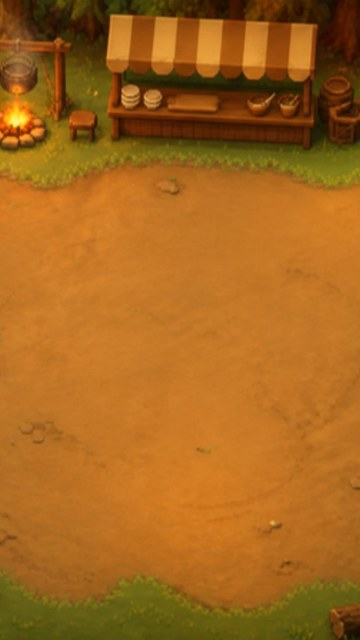
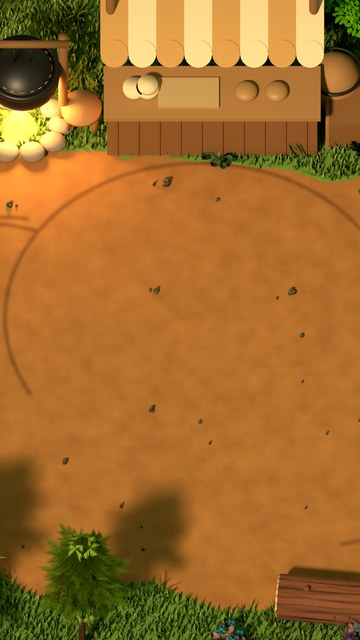
Clairière 3D (rendu Blender) et chat chef 3D animé dans le jeu (une direction, étape intermédiaire)
Claude-Session: https://claude.ai/code/session_011iTQJ3ptn1M89syPvc6cfN

diff --git a/src/entities/Chef.ts b/src/entities/Chef.ts
@@ -1,11 +1,15 @@
 import Phaser from 'phaser';
 import { audio } from '../audio/AudioManager';
+import ANIM3D from '../core/anim3d.json';
 import { artScale, CHEF_FRAMES, ChefDef, is3d, PowerId, fitUi, px, STYLE_3D } from '../core/constants';
 import { emptyInventory, Inventory, Order } from '../core/RecipeManager';
 import anchors from '../core/spriteAnchors.json';
 
 const ANCHORS = anchors as Record<string, number>;
 const ATTACK_ANIM = 0.28;
+/** Distance parcourue (unités du jeu) pour un cycle complet de pas : la cadence des pas suit la vitesse, les pieds ne glissent pas. */
+const RIG_STRIDE = 56;
+interface RigMeta { w: number; h: number; ox: number; oy: number; scale: number; anims: Record<string, { frames: number; cols: number }> }
 
 /** Le chef jouable : déplacement, vie, inventaire, pouvoirs temporaires, animations. */
 export class Chef {
@@ -36,6 +40,10 @@ export class Chef {
   private lunge = 0;
   private attackT = 0;
   private frames: { idle: string[]; walk: string[]; attack: string[] };
+  /** Animations 3D du chef (Blender) si elles sont chargées et qu'aucun costume n'est équipé. */
+  private rig: RigMeta | null = null;
+  private rigPhase = 0;
+  private moveSpeed = 0;
 
   /** @param skin costume de boutique : une seule image, animée par code */
   constructor(scene: Phaser.Scene, public def: ChefDef, x: number, y: number, private skin: string | null = null) {
@@ -44,6 +52,7 @@ export class Chef {
     this.hp = this.maxHp = def.hp;
     // costume : une seule image ; en style 3D, sa pose d'attaque quand elle existe
     this.frames = skin ? { idle: [skin], walk: is3d(skin) && scene.textures.exists(skin + '_mar') ? [skin + '_mar', skin] : [skin], attack: [is3d(skin) && scene.textures.exists(skin + '_atk') ? skin + '_atk' : skin] } : CHEF_FRAMES[def.id];
+    this.rig = !skin && STYLE_3D && scene.textures.exists(`rig_${def.id}_idle`) ? ((ANIM3D as Record<string, RigMeta>)[def.id] ?? null) : null;
     this.shadow = scene.add.ellipse(x, y, 26, 8, 0x000000, 0.3);
     this.sprite = scene.add.image(x, y, this.frames.idle[0]).setOrigin(0.5, 1);
     this.dishIcon = fitUi(scene.add.image(x, y, 'plat').setVisible(false));
@@ -61,6 +70,8 @@ export class Chef {
       if (stuck || !blocked(nx, this.y)) this.x = nx;
       if (stuck || !blocked(this.x, ny)) this.y = ny;
       if (Math.abs(dir.x) > 0.15) this.facing = dir.x > 0 ? 1 : -1;
+      this.moveSpeed = speed;
+      this.rigPhase += (dt * speed) / RIG_STRIDE;
       const step = Math.floor(this.walkT);
       this.walkT += dt * (speed / 12);
       if (STYLE_3D && Math.floor(this.walkT) !== step && step % 2 === 0) audio.sfx('pas'); // un bruit de pas tous les deux temps
@@ -101,6 +112,28 @@ export class Chef {
     if (this.chopping) return f.attack[Math.floor(time / 130) % 2];
     if (this.moving) return f.walk[Math.floor(this.walkT) % f.walk.length];
     return f.idle[0];
+  }
+
+  /** Animation 3D : choisit la planche (repos, marche, course, attaque) et l'image selon l'état du chef. */
+  private applyRig(time: number): void {
+    const r = this.rig!;
+    let anim = 'idle';
+    let t = (time / 2600) % 1;
+    if (this.attackT > 0 || this.ultActive > 0 || this.chopping) {
+      anim = 'attaque';
+      t = this.ultActive > 0 || this.chopping ? (time / 380) % 1 : 1 - this.attackT / ATTACK_ANIM;
+    } else if (this.moving) {
+      anim = this.moveSpeed < 70 ? 'marche' : 'course';
+      t = this.rigPhase % 1;
+    }
+    const n = r.anims[anim].frames;
+    const flip = this.ultActive > 0 ? Math.floor(time / 70) % 2 === 0 : this.facing < 0;
+    this.sprite
+      .setTexture(`rig_${this.def.id}_${anim}`, Math.min(n - 1, Math.floor(t * n)))
+      .setFlipX(flip)
+      .setOrigin(flip ? 1 - r.ox / r.w : r.ox / r.w, r.oy / r.h)
+      .setScale(r.scale)
+      .setAngle(0);
   }
 
   /**
@@ -195,6 +228,7 @@ export class Chef {
       .setAngle(swing || ((this.skin || is3d(key)) && this.moving ? Math.sin(this.walkT * Math.PI) * 2 : 0))
       .setAlpha(this.invuln > 0 && Math.floor(time / 80) % 2 === 0 ? 0.35 : 1)
       .setDepth(this.y);
+    if (this.rig) this.applyRig(time);
     this.shadow.setPosition(this.x, this.y - 1).setDepth(this.y - 1);
     this.dishIcon
       .setVisible(this.dish !== null)

diff --git a/src/scenes/BootScene.ts b/src/scenes/BootScene.ts
@@ -1,4 +1,5 @@
 import Phaser from 'phaser';
+import ANIM3D from '../core/anim3d.json';
 import { ART_3D, CHEF_ORDER, INGREDIENTS, is3d, SHOP, SPRITE_FILES, STYLE_3D, UPGRADES, WORLD_3D, WORLD_ORDER, WORLDS, UI3D_2X, UI3D_HD } from '../core/constants';
 
 /** Charge les sprites et génère les petites textures procédurales (joystick, plat, effets). */
@@ -42,6 +43,8 @@ export class BootScene extends Phaser.Scene {
     for (const u of UPGRADES) this.load.image(u.icon, STYLE_3D && UI3D_2X.includes(u.icon) ? `ui3d/${u.icon}.png` : `ui/${u.icon}.png`);
     // plat, tonneau explosif, boule de feu, cadenas : version 3D (les dessins pixel ne sont alors pas fabriqués)
     if (STYLE_3D) for (const k of ['plat', 'tonneau', 'boule_feu', 'cadenas']) this.load.image(k, `ui3d/${k}.png`);
+    // animations 3D (Blender, squelette + mouvements enregistrés) : une planche d'images par animation et par chef
+    if (STYLE_3D) for (const [id, m] of Object.entries(ANIM3D)) for (const a of Object.keys(m.anims)) this.load.spritesheet(`rig_${id}_${a}`, `anim3d/${id}_${a}.webp`, { frameWidth: m.w, frameHeight: m.h });
     this.load.image('logo', '../logo.png');
     // interface façon image de référence (découpée par tools/extract_ui3d.py)
     if (STYLE_3D) for (const k of ['btn_attaque', 'btn_feu', 'joy_pommeau', 'chrono', 'piece', 'pause', 'coeur', 'coeur_vide']) this.load.image('ui3d_' + k, `ui3d/${k}.png`);
@@ -56,6 +59,7 @@ export class BootScene extends Phaser.Scene {
     for (const k of this.textures.getTextureKeys()) if (k.startsWith('ui3d_') || (STYLE_3D && UI3D_HD.includes(k))) this.textures.get(k).setFilter(Phaser.Textures.FilterMode.LINEAR);
     // images 3D : lissées (pas de gros pixels)
     for (const k of Object.keys(ART_3D)) if (is3d(k) && this.textures.exists(k)) this.textures.get(k).setFilter(Phaser.Textures.FilterMode.LINEAR);
+    for (const k of this.textures.getTextureKeys()) if (k.startsWith('rig_')) this.textures.get(k).setFilter(Phaser.Textures.FilterMode.LINEAR);
     const g = this.make.graphics({ x: 0, y: 0 }, false);
     const tex = (key: string, w: number, h: number, draw: () => void) => {
       if (this.textures.exists(key)) return; // déjà chargé (image 3D)

diff --git a/tools/blender/pack_anim.py b/tools/blender/pack_anim.py
@@ -20,11 +20,11 @@ SRC, WHO = sys.argv[1], sys.argv[2]
 DISPLAY_H = float(sys.argv[3]) if len(sys.argv) > 3 else 44.0   # hauteur du personnage à l'écran, en unités du jeu
 OUT = os.path.join(ROOT, "public", "assets", "anim3d")
 OUT_TS = os.path.join(ROOT, "src", "core", "anim3d.json")
-SHRINK = 0.62          # 512 px rendus -> taille livrée (poids du jeu) ; reste très net : le personnage fait ~220 px de haut
-FEET = (256, 393)      # point des pieds dans l'image rendue (cible de la caméra : voir chef.py)
+SHRINK = 1.0           # images rendues à 3 px par pixel de carte : pas de réduction (le personnage fait ~150 px de haut)
+FEET = (320, 388)      # point des pieds dans l'image rendue de 640 x 640 (cible de la caméra : voir chef.py)
 os.makedirs(OUT, exist_ok=True)
 
-files = sorted(glob.glob(os.path.join(SRC, f"{WHO}_*_[0-9][0-9].png")))
+files = sorted(glob.glob(os.path.join(SRC, f"{WHO}_*_[0-9][0-9]*.png")))
 anims = {}
 for f in files:
     m = re.match(rf"{WHO}_(\w+)_(\d+)\.png", os.path.basename(f))
@@ -38,7 +38,7 @@ for fs in anims.values():
         if bb:
             x0, y0, x1, y1 = min(x0, bb[0]), min(y0, bb[1]), max(x1, bb[2]), max(y1, bb[3])
 pad = 6
-x0, y0, x1, y1 = max(0, x0 - pad), max(0, y0 - pad), min(512, x1 + pad), min(512, y1 + pad)
+x0, y0, x1, y1 = max(0, x0 - pad), max(0, y0 - pad), min(640, x1 + pad), min(640, y1 + pad)
 cw, ch = x1 - x0, y1 - y0
 fw, fh = round(cw * SHRINK), round(ch * SHRINK)
 info = {}
@@ -53,7 +53,8 @@ for name, fs in anims.items():
     sheet.save(os.path.join(OUT, f"{WHO}_{name}.webp"), quality=92, method=6)
     info[name] = {"frames": n, "cols": cols}
 # hauteur utile du personnage (de la pointe de la toque aux pieds) pour régler l'échelle d'affichage
-body_h = (FEET[1] - y0) * SHRINK
+idle_top = min((Image.open(f).convert("RGBA").getchannel("A").point(lambda v: 255 if v > 8 else 0).getbbox() or (0, 10**9, 0, 0))[1] for f in anims.get("idle", [])) if "idle" in anims else y0
+body_h = (FEET[1] - idle_top) * SHRINK   # hauteur du personnage debout (pieds -> pointe de la toque)
 meta = {"w": fw, "h": fh, "ox": round((FEET[0] - x0) * SHRINK, 1), "oy": round((FEET[1] - y0) * SHRINK, 1),
         "scale": round(DISPLAY_H / body_h, 5), "anims": info}
 data = json.load(open(OUT_TS)) if os.path.exists(OUT_TS) else {}

diff --git a/tools/blender/chef.py b/tools/blender/chef.py
@@ -342,8 +342,11 @@ bpy.context.view_layer.update()
 FPS = 30   # images par seconde de la vidéo (les mouvements enregistrés sont à 24 : Blender calcule les images intermédiaires)
 # (clé, action, nombre de cycles) pour la vidéo ; la course utilise le sprint (cycle court = rapide)
 VIDEO = [("marche", "Walk_Loop", 2), ("course", "Sprint_Loop", 4), ("attaque", "Sword_Attack", 1)]
+STEP = int(os.environ.get("FRAME_STEP", "1"))   # ne rendre qu'une image sur STEP (pour les planches du jeu)
 if MODE == "apercu":
     todo = [("marche", "Walk_Loop", 1)]
+elif MODE == "repos":
+    todo = [("idle", "Idle_Loop", 1)]
 elif MODE == "video":
     todo = VIDEO
 else:
@@ -357,7 +360,7 @@ for key, act_name, cycles in todo:
     n = per_cycle * cycles
     if MODE == "apercu":
         n = 1
-    for i in range(n):
+    for i in range(0, n, STEP if MODE == "repos" else 1):
         fr = f0 + ((i % per_cycle) / per_cycle) * (f1 - f0) if key in ("marche", "course", "idle") else f0 + (i / max(1, per_cycle - 1)) * (f1 - f0)
         if key not in ("marche", "course", "idle"):
             fr = f0 + min(1.0, (i % per_cycle) / max(1, per_cycle - 1)) * (f1 - f0)

diff --git a/tools/blender/install_map.py b/tools/blender/install_map.py
@@ -1,0 +1,18 @@
+"""Installe une carte rendue par Blender dans le jeu : les quatre tailles utilisées (partie, partie en haute définition, menu portrait, vignette).
+Usage : python3 tools/blender/install_map.py <rendu_3360x1888.png> <monde>
+"""
+import os
+import sys
+
+from PIL import Image
+
+SRC, WORLD = sys.argv[1], sys.argv[2]
+OUT = os.path.join(os.path.dirname(__file__), "..", "..", "public", "assets", "maps")
+im = Image.open(SRC).convert("RGB")
+hd = im.resize((3360, 1888), Image.LANCZOS)
+hd.save(os.path.join(OUT, f"hd3d_{WORLD}.jpg"), quality=88)
+wide = hd.resize((1680, 944), Image.LANCZOS)
+wide.save(os.path.join(OUT, f"wide3d_{WORLD}.jpg"), quality=90)
+wide.resize((512, 288), Image.LANCZOS).save(os.path.join(OUT, f"thumb3d_{WORLD}.jpg"), quality=88)
+wide.crop((840 - 265, 0, 840 + 266, 944)).resize((360, 640), Image.LANCZOS).save(os.path.join(OUT, f"port3d_{WORLD}.jpg"), quality=88)
+print("carte installée :", WORLD)
